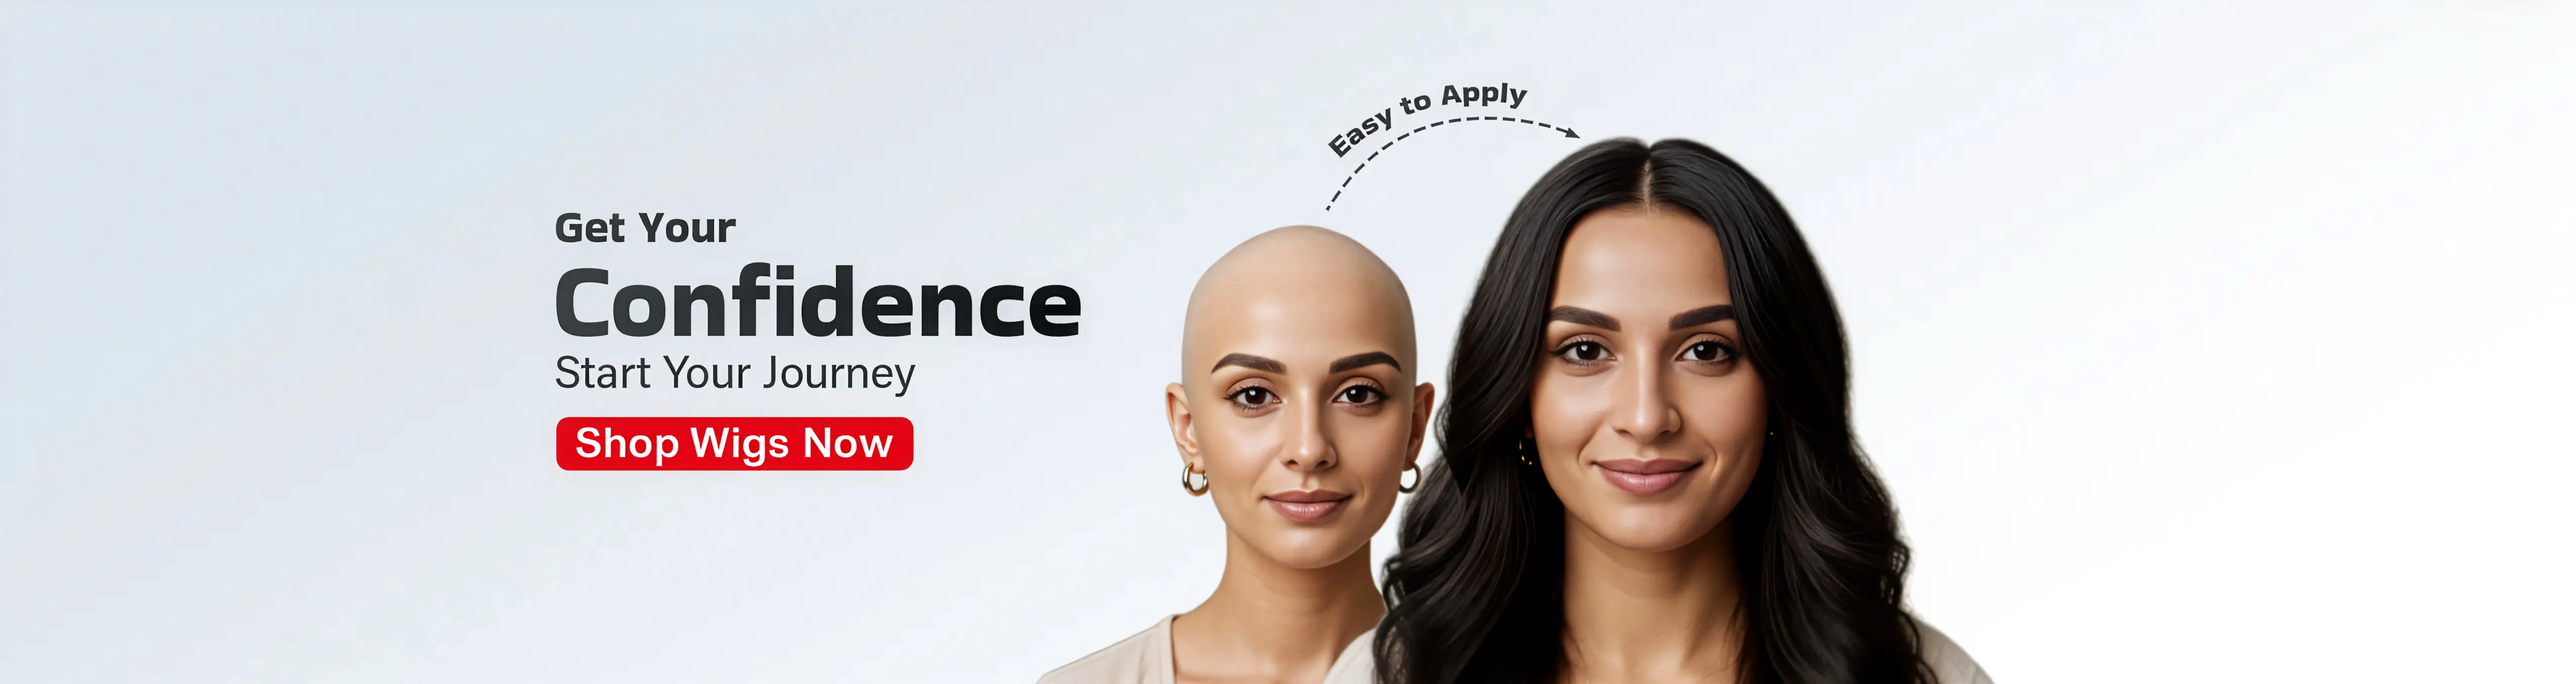
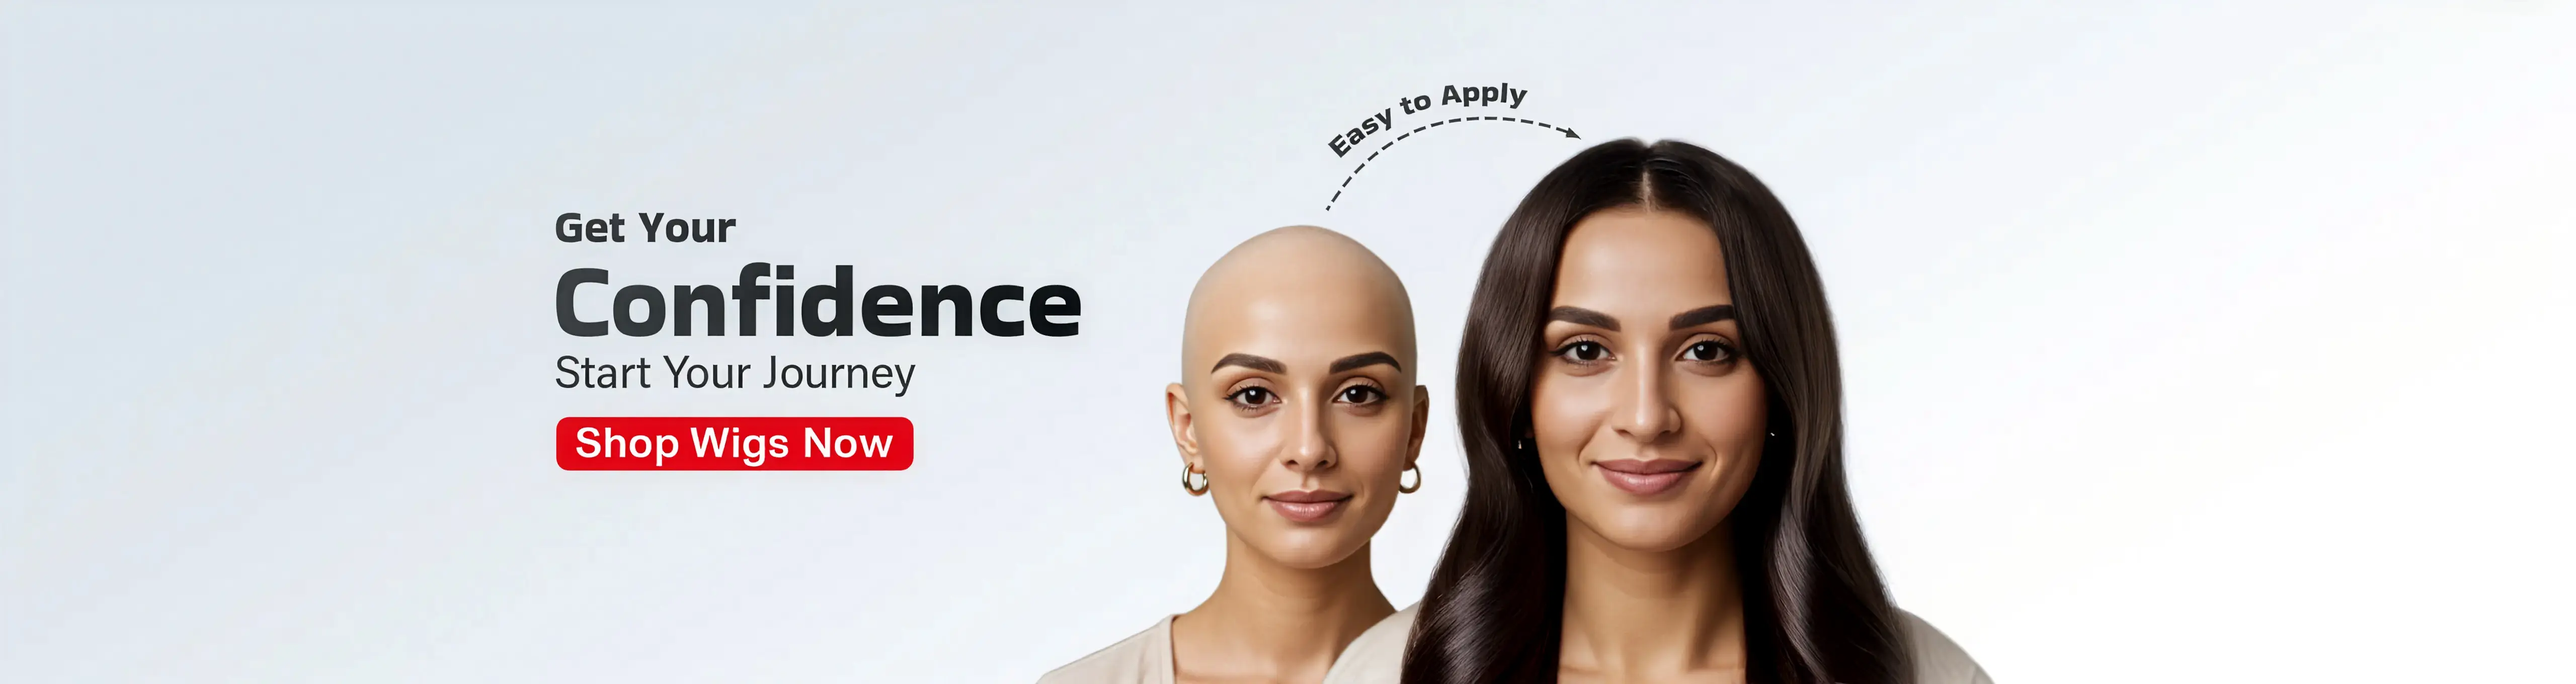
Update hero/featured photos

Changed region(s): [[0.5312, 0.1853, 0.7812, 1.0]]

diff --git a/app/page.tsx b/app/page.tsx
@@ -789,7 +789,7 @@ function DeeceeHairApp(): React.ReactElement {
       {/* Featured Photo Section */}
       <section className="h-[80vh] w-auto relative overflow-hidden">
         <img
-          src="/images/featured-section.webp"
+          src="/images/6.webp"
           alt="Featured Collection"
           className="w-full h-full object-cover"
         />
